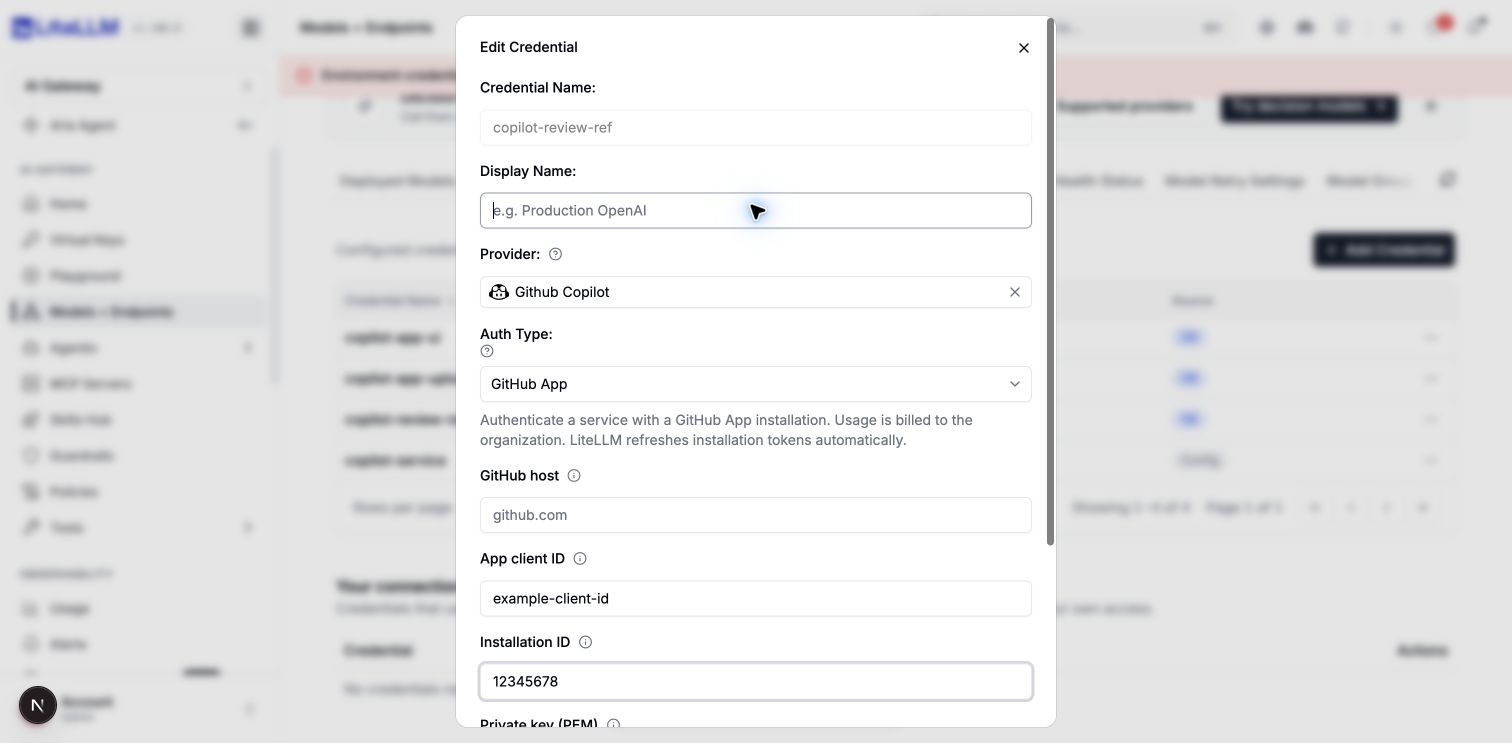
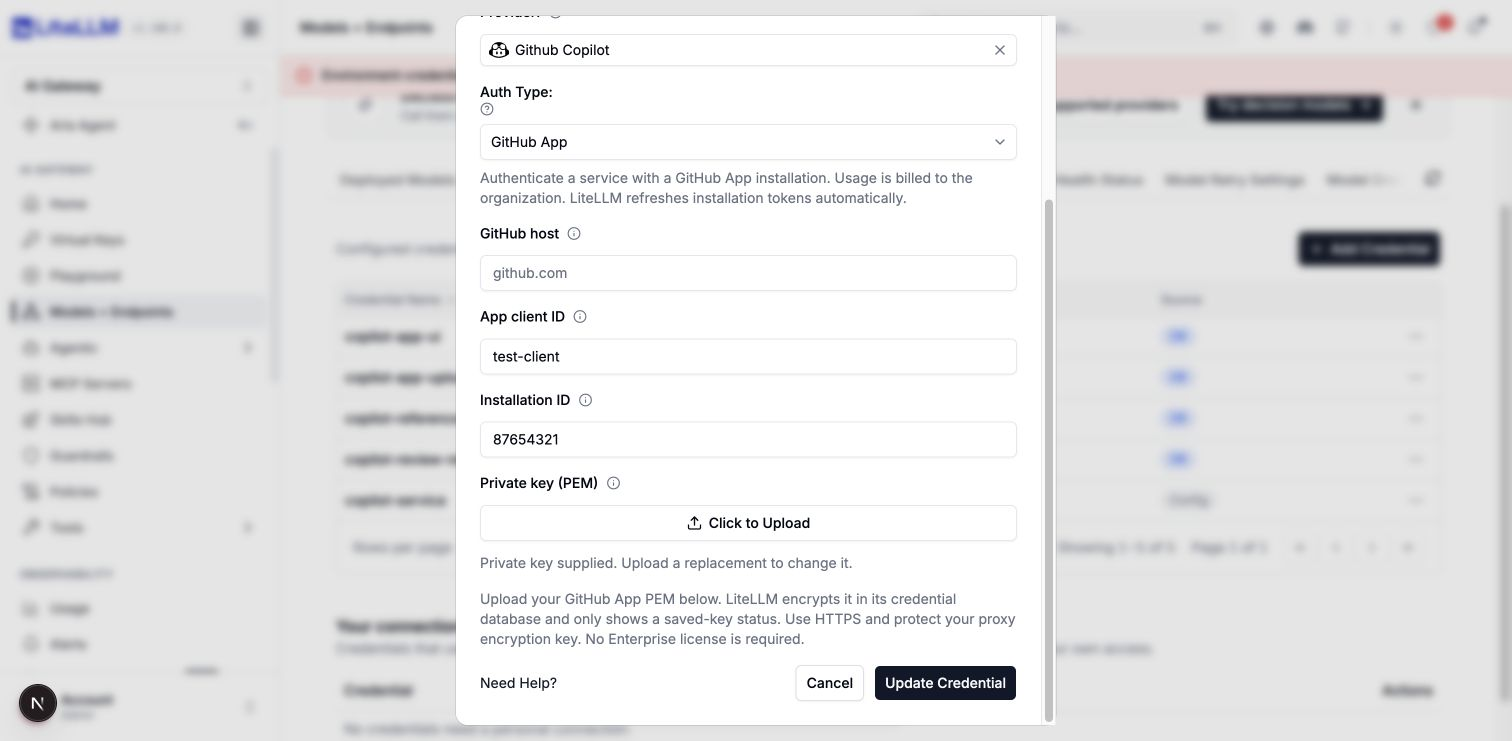
docs: clarify Copilot saved-key edits

diff --git a/docs/providers/github_copilot.md b/docs/providers/github_copilot.md
@@ -127,10 +127,10 @@ Open **Add Model**, select **Github Copilot**, and choose an available model. Se
 
 Create a separate named credential for each App, then attach each application's model deployment to the appropriate credential. To rotate a key, edit the credential and upload its replacement before revoking the old key in GitHub. Leaving the uploaded-key field unchanged preserves the saved key.
 
-For a database credential created through the API, the form shows the GitHub Copilot name and logo. A PEM upload replaces any existing private-key secret reference.
+For a database credential created through the API, the form shows the GitHub Copilot name and logo. You can edit its settings without uploading another PEM. The saved key or secret reference stays in place. A PEM upload replaces any existing private-key secret reference. The dashboard only offers file upload, not a secret-reference field.
 
 <div className="docs-screenshot">
-  <Image img={require('../../img/github-copilot-app-edit.jpg')} alt="Edit a GitHub App credential with the provider name and logo" />
+  <Image img={require('../../img/github-copilot-app-edit.jpg')} alt="Edit a GitHub App credential while preserving its saved key and offering PEM upload for replacement" />
 </div>
 
 ### Credential API
